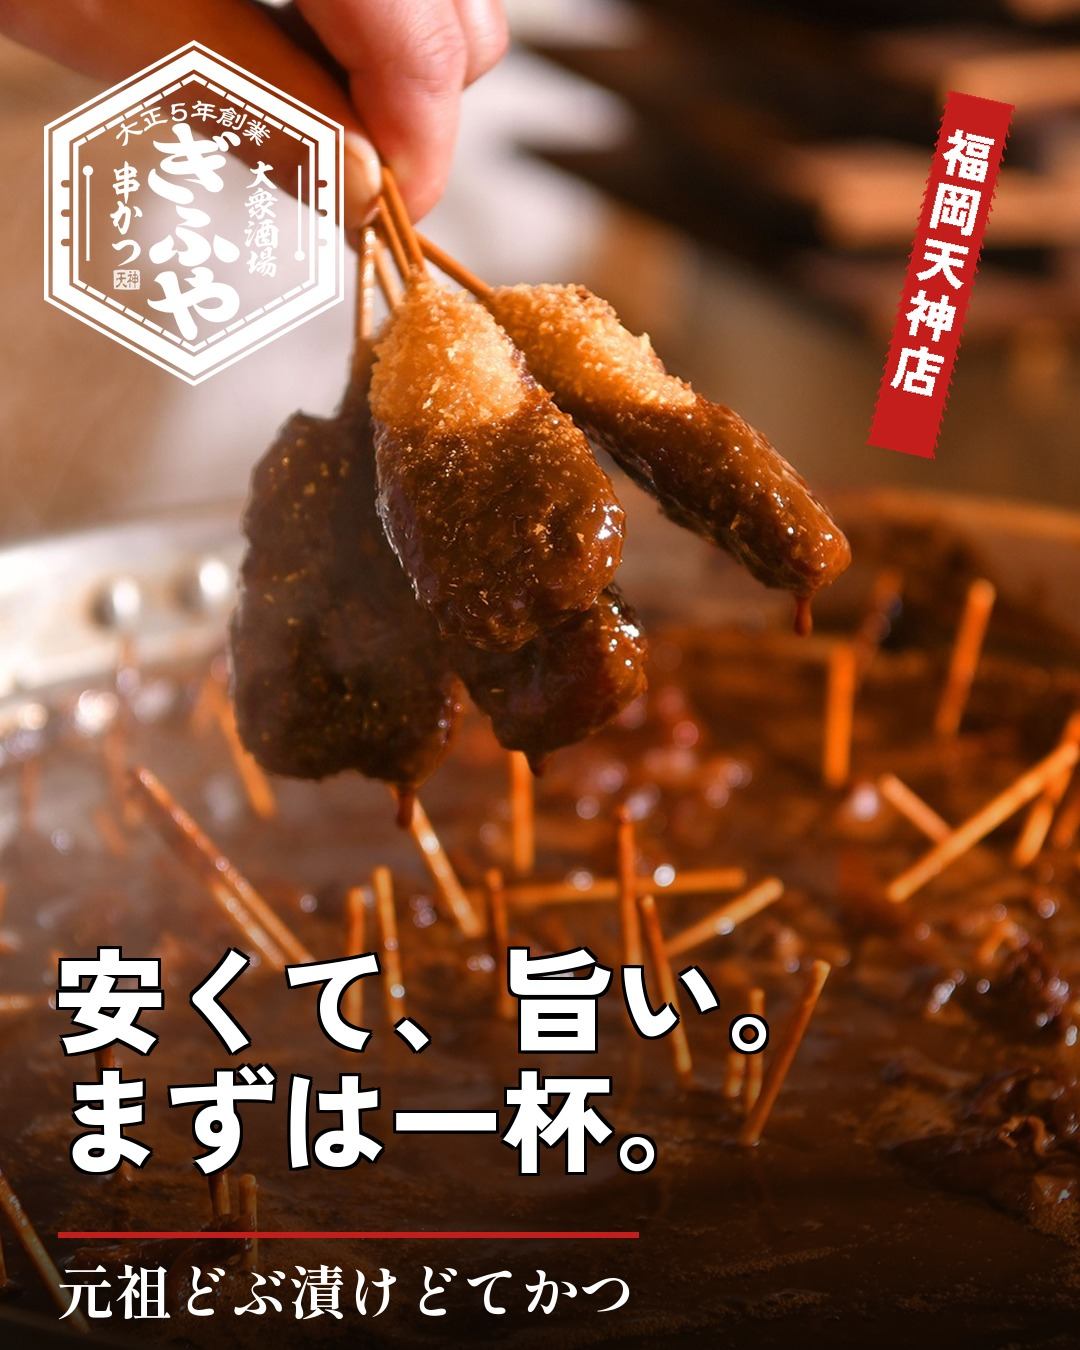
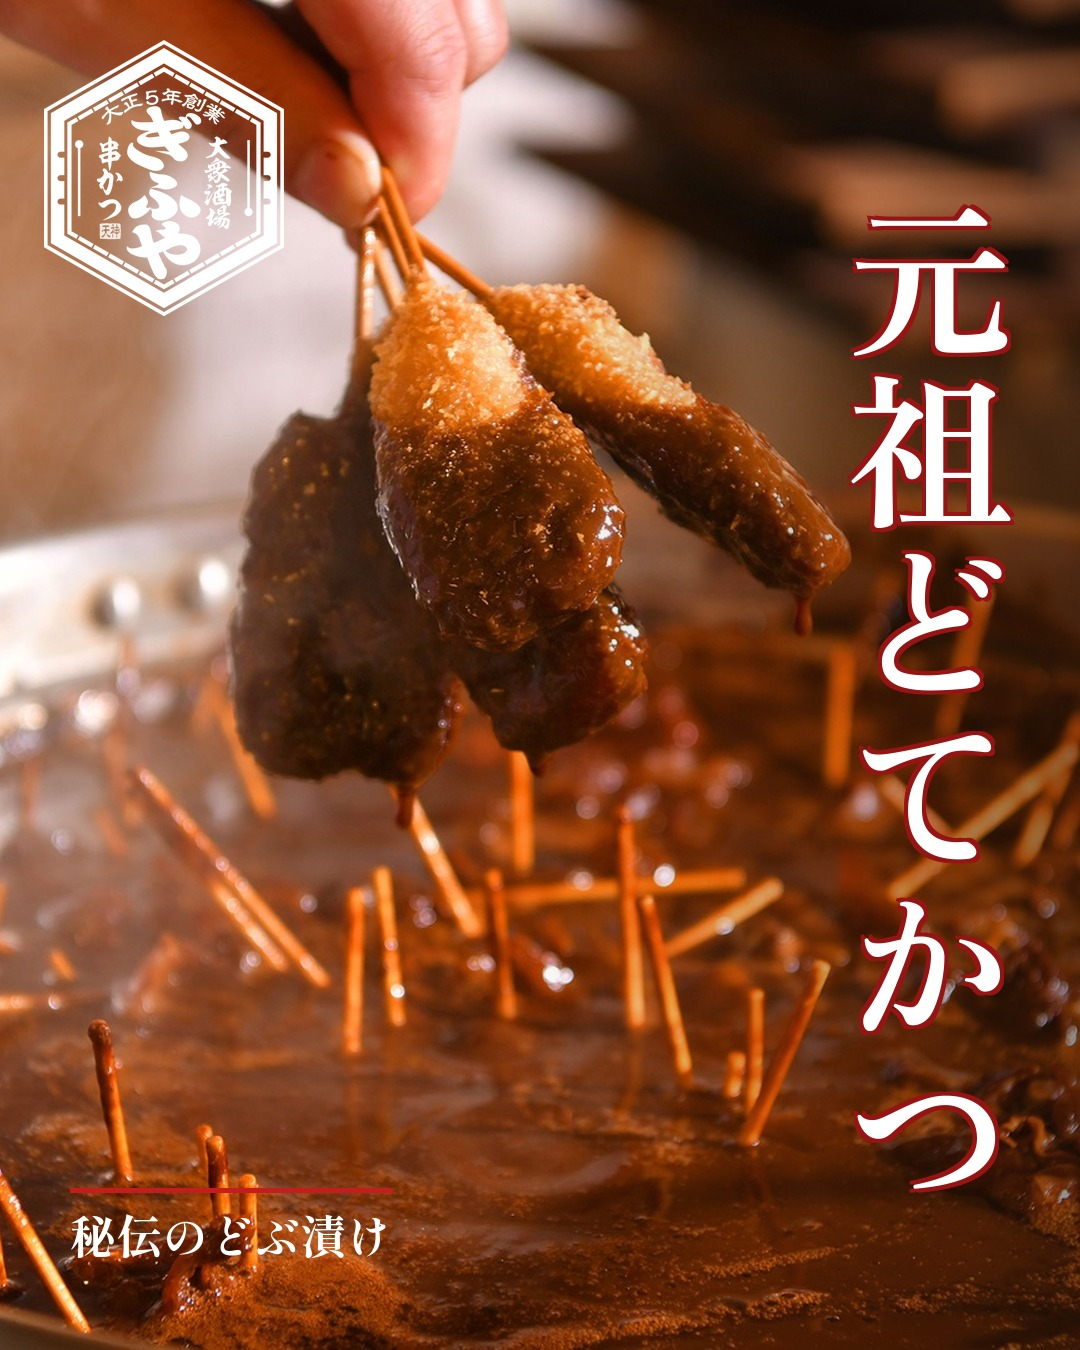
feat(pwa): ぎふやフィードを短冊+H混在に更新（シネマ帯Gは不採用）
- feed_01〜12 を差し替え：H(元祖どてかつ・名物どて焼き)＋短冊10本。
- ③パターン見本からG(シネマ帯)を除外し短冊/Hに。Gは烏丸すさび湯用に確保。
- sw.js v84。

Claude-Session: https://claude.ai/code/session_01Di2y2Fk2KdXwa37iAoiNS2

diff --git a/pwa/gifuyatenjin.html b/pwa/gifuyatenjin.html
@@ -86,7 +86,7 @@
 <div class="sgrid" id="sgrid"></div>
 
 <div class="sect">③ パターン見本 ・ デザインの型</div>
-<div class="note" style="margin-top:6px">投稿に使えるデザインの型です。今の12本は「短冊」で統一していますが、G・Hを混ぜることもできます。使いたい型を教えてください。</div>
+<div class="note" style="margin-top:6px">ぎふやは「短冊（メイン）」＋名物2品を「H 巨大縦書き」で構成しています。上の①フィードがその混在版です。</div>
 <div class="pgrid" id="pgrid"></div>
 
 <div id="toast"></div>
@@ -185,9 +185,8 @@
 
   // ③ パターン見本（デザインの型）
   var PATTERNS = [
-    {img:"pattern_tanzaku.jpg", t:"短冊（採用中）", d:"福岡天神店の赤短冊＋見出し。今の12本の型。安さ・名物訴求に強い。"},
-    {img:"pattern_cinema.jpg",  t:"G シネマ帯",   d:"上下の黒帯＋金ロゴ・金線。上品で高級感。刺身や逸品向け。"},
-    {img:"pattern_bigname.jpg", t:"H 巨大縦書き", d:"料理名を大きく縦書き。インパクト大で和の雰囲気。名物1品押しに。"}
+    {img:"pattern_tanzaku.jpg", t:"短冊（メイン）", d:"福岡天神店の赤短冊＋見出し。安さ・名物訴求に強い。フィードの主役。"},
+    {img:"pattern_bigname.jpg", t:"H 巨大縦書き", d:"料理名を大きく縦書き。インパクト大で和の雰囲気。名物1品押しに（元祖どてかつ・名物どて焼き で採用）。"}
   ];
   var pg = document.getElementById("pgrid");
   PATTERNS.forEach(function (p) {

diff --git a/pwa/sw.js b/pwa/sw.js
@@ -2,7 +2,7 @@
    ・アプリのガワ(shell)を precache → 2回目以降は“開いた瞬間”に表示
    ・jsDelivr のメディアは stale-while-revalidate でランタイムキャッシュ
    ・GAS(JSONP)などデータ通信はキャッシュしない（常に最新を取りに行く） */
-var VER = "susabiyu-v83";
+var VER = "susabiyu-v84";
 var SHELL = VER + "-shell";
 var MEDIA = VER + "-media";
 var SHELL_FILES = [
